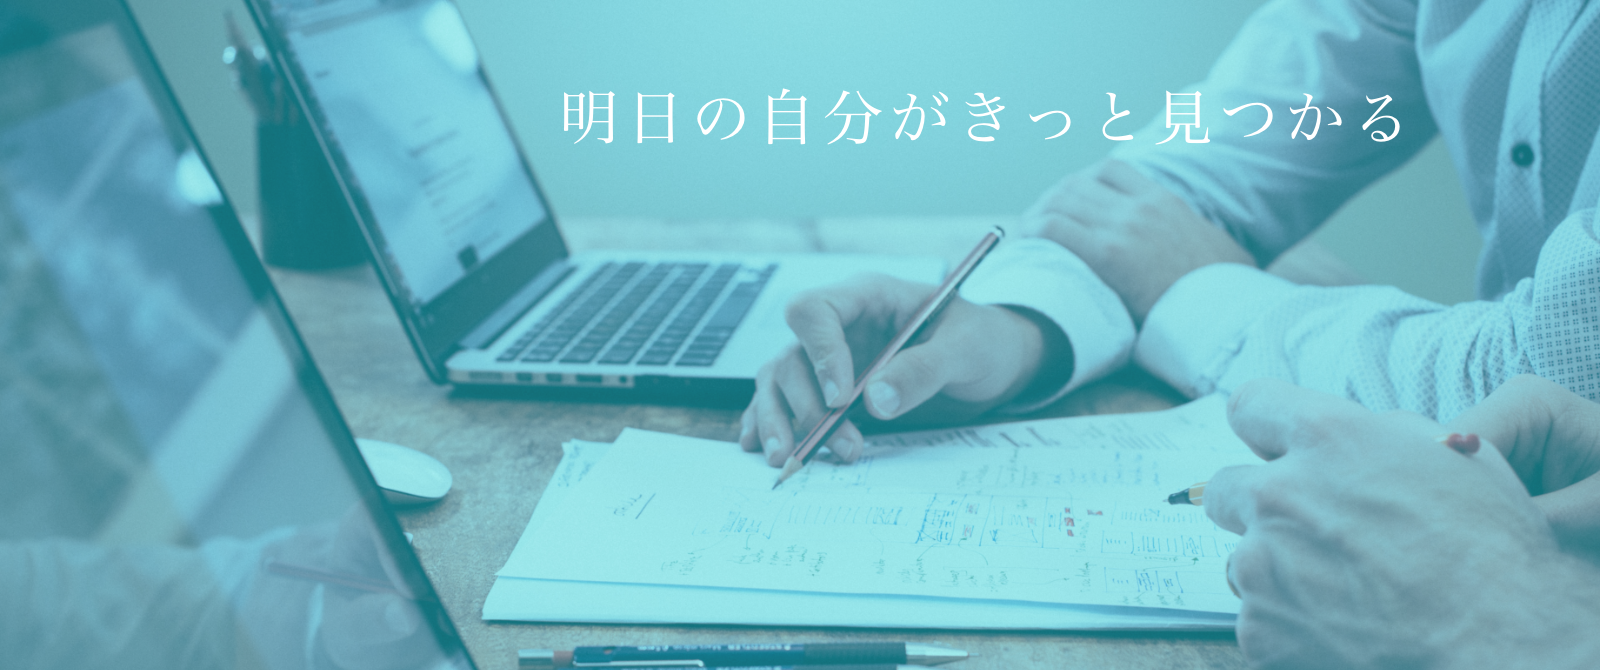
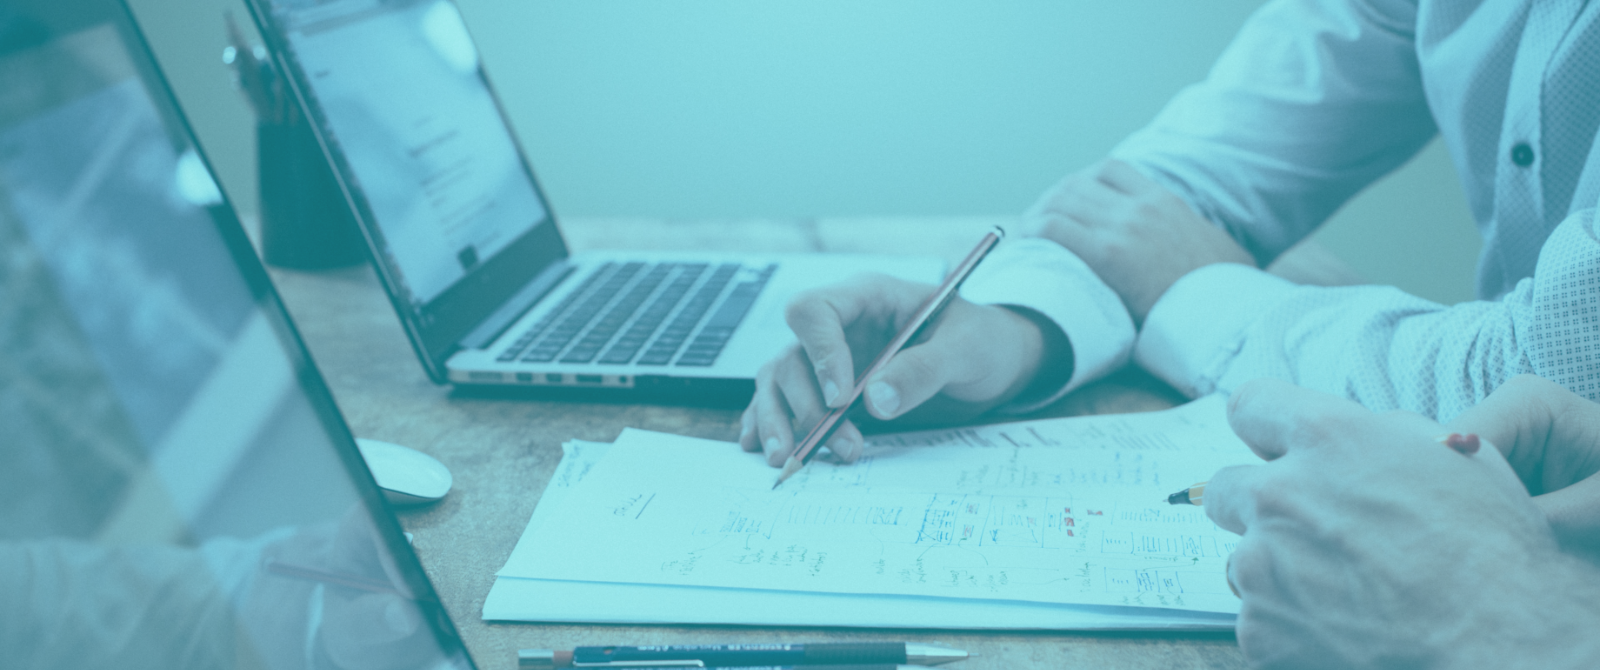
create mq mainvisual

Changed region(s): [[0.3438, 0.1194, 0.625, 0.209], [0.6562, 0.1194, 0.875, 0.209]]

diff --git a/root/index.html b/root/index.html
@@ -14,7 +14,7 @@
 
 <body>
     <!-- header -->
-    <header class="l-header" style="display: none;">
+    <header class="l-header">
         <div class="l-wrapper l-flex l-space-between">
             <a href="#">
                 <h1 class="p-title--main">Az <span class="p-title--main__inner">Works</span></h1>
@@ -63,7 +63,12 @@
     <!-- header -->
 
     <!-- main-visual -->
-    <img src="./img/Hero@2x.png" alt="main-visual" class="p-main-visual">
+    <!-- <img src="./img/Hero@2x.png" alt="main-visual" class="p-main-visual"> -->
+    <div class="p-main-visual">
+        <div class="l-wrapper">
+            <p class="p-main-visual--text">明日の自分がきっと見つかる</p>
+        </div>
+    </div>
     <!-- main-visual -->
 
     <!-- main -->
@@ -71,7 +76,7 @@
 
         <!-- news -->
         <article class="l-main">
-            <div class="l-flex l-wrapper">
+            <div class="l-flex l-wrapper l-column--mq">
                 <div class="u-mr40">
                     <h2 class="p-title--sub">News</h2>
                     <p class="p-title--sub__caption u-color--black">一覧を見る ></p>

diff --git a/root/css/style.css b/root/css/style.css
@@ -220,7 +220,7 @@ a:active {
 
 @media screen and (max-width: 1200px) {
   .l-wrapper {
-    width: 100%;
+    width: 90%;
   }
 }
 
@@ -469,6 +469,27 @@ a:active {
 
 .p-main-visual {
   width: 100vw;
+  height: 70vh;
+  background-image: url(../img/Hero@2x.png);
+  background-position: 50% 100%;
+  background-size: cover;
+  background-repeat: no-repeat;
+}
+
+@media screen and (max-width: 1200px) {
+  .p-main-visual {
+    overflow: hidden;
+    width: 100vw;
+    height: 100vh;
+  }
+}
+
+.p-main-visual--text {
+  padding-top: 10rem;
+  color: #fff;
+  text-align: right;
+  font-size: 6rem;
+  font-family: serif;
 }
 
 .u-mb30 {
@@ -477,6 +498,12 @@ a:active {
 
 .u-mr40 {
   margin-right: 4rem;
+}
+
+@media screen and (max-width: 1200px) {
+  .u-mr40 {
+    margin-right: 0;
+  }
 }
 
 .u-color--black {

diff --git a/root/css/scss/object/project/_img.scss b/root/css/scss/object/project/_img.scss
@@ -1,5 +1,25 @@
 .p {
   &-main-visual {
     width: 100vw;
+    height: 70vh;
+    // background-color: #000;
+    background-image: url(../img/Hero@2x.png);
+    background-position: 50% 100%;
+    background-size: cover;
+    background-repeat: no-repeat;
+
+    @include mq(xl) {
+      overflow: hidden;
+      width: 100vw;
+      height: 100vh;
+    }
+
+    &--text {
+      padding-top: 10rem;
+      color: #fff;
+      text-align: right;
+      font-size: 6rem;
+      font-family: serif;
+    }
   }
 }

diff --git a/root/css/scss/object/utility/_margin.scss b/root/css/scss/object/utility/_margin.scss
@@ -8,6 +8,10 @@
     &r {
       &40 {
         margin-right: 4rem;
+
+        @include mq(xl) {
+          margin-right: 0;
+        }
       }
     }
   }

diff --git a/root/css/scss/object/component/_display.scss b/root/css/scss/object/component/_display.scss
@@ -4,7 +4,7 @@
     width: 1000px;
 
     @include mq(xl) {
-      width: 100%;
+      width: 90%;
     }
   }
   &-flex {
